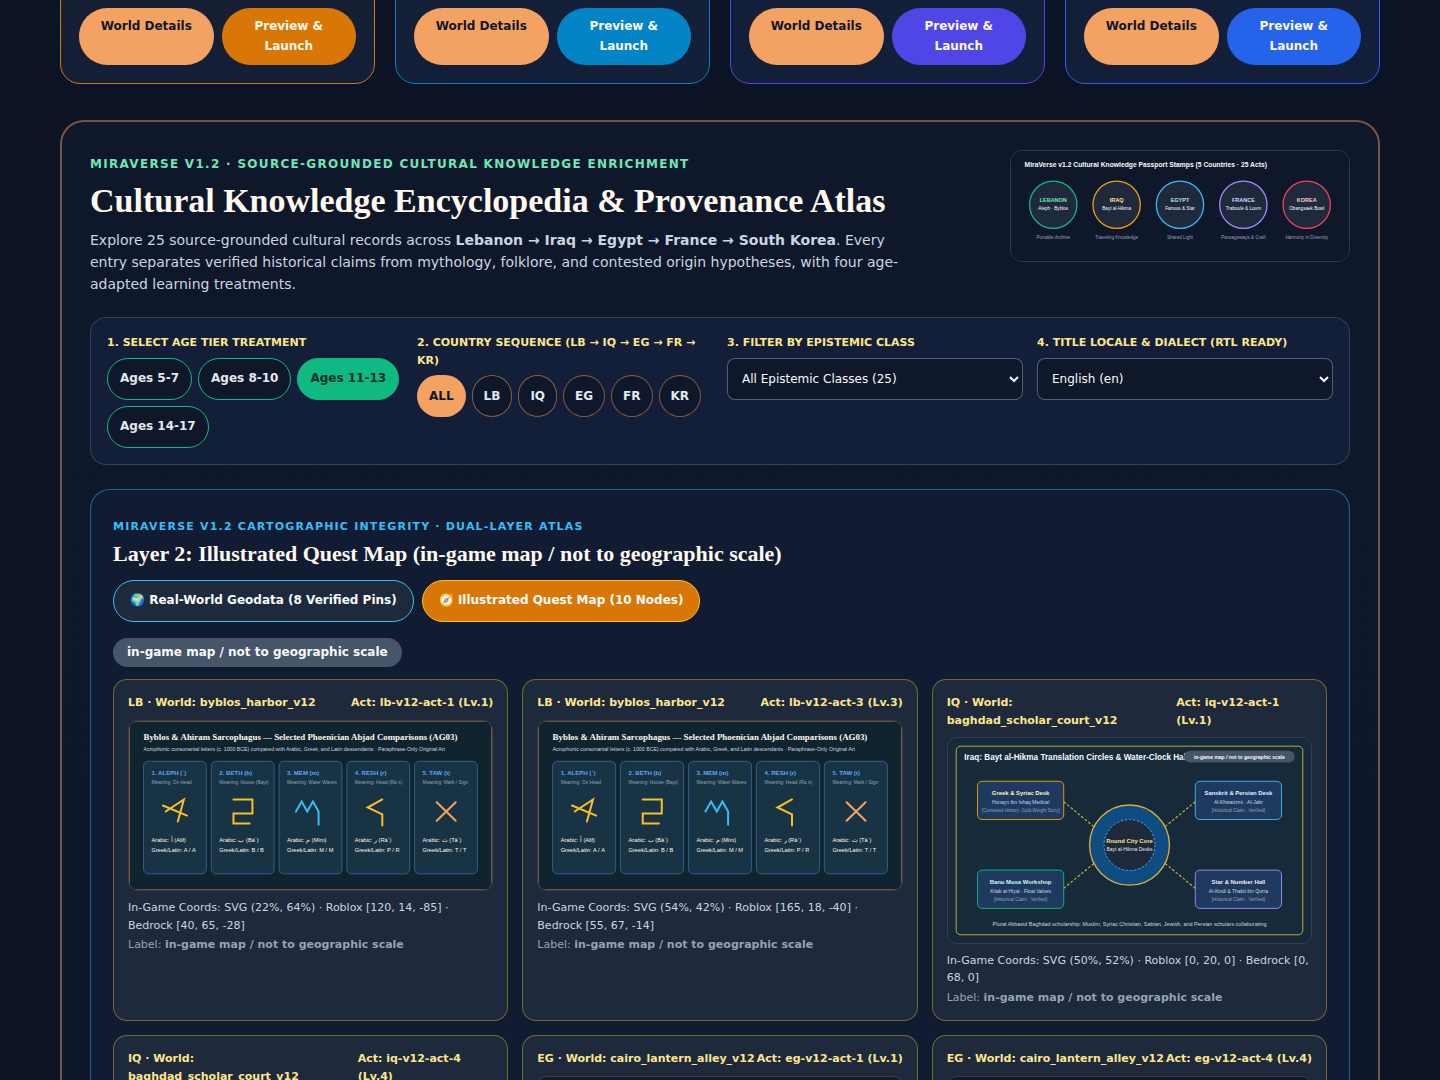
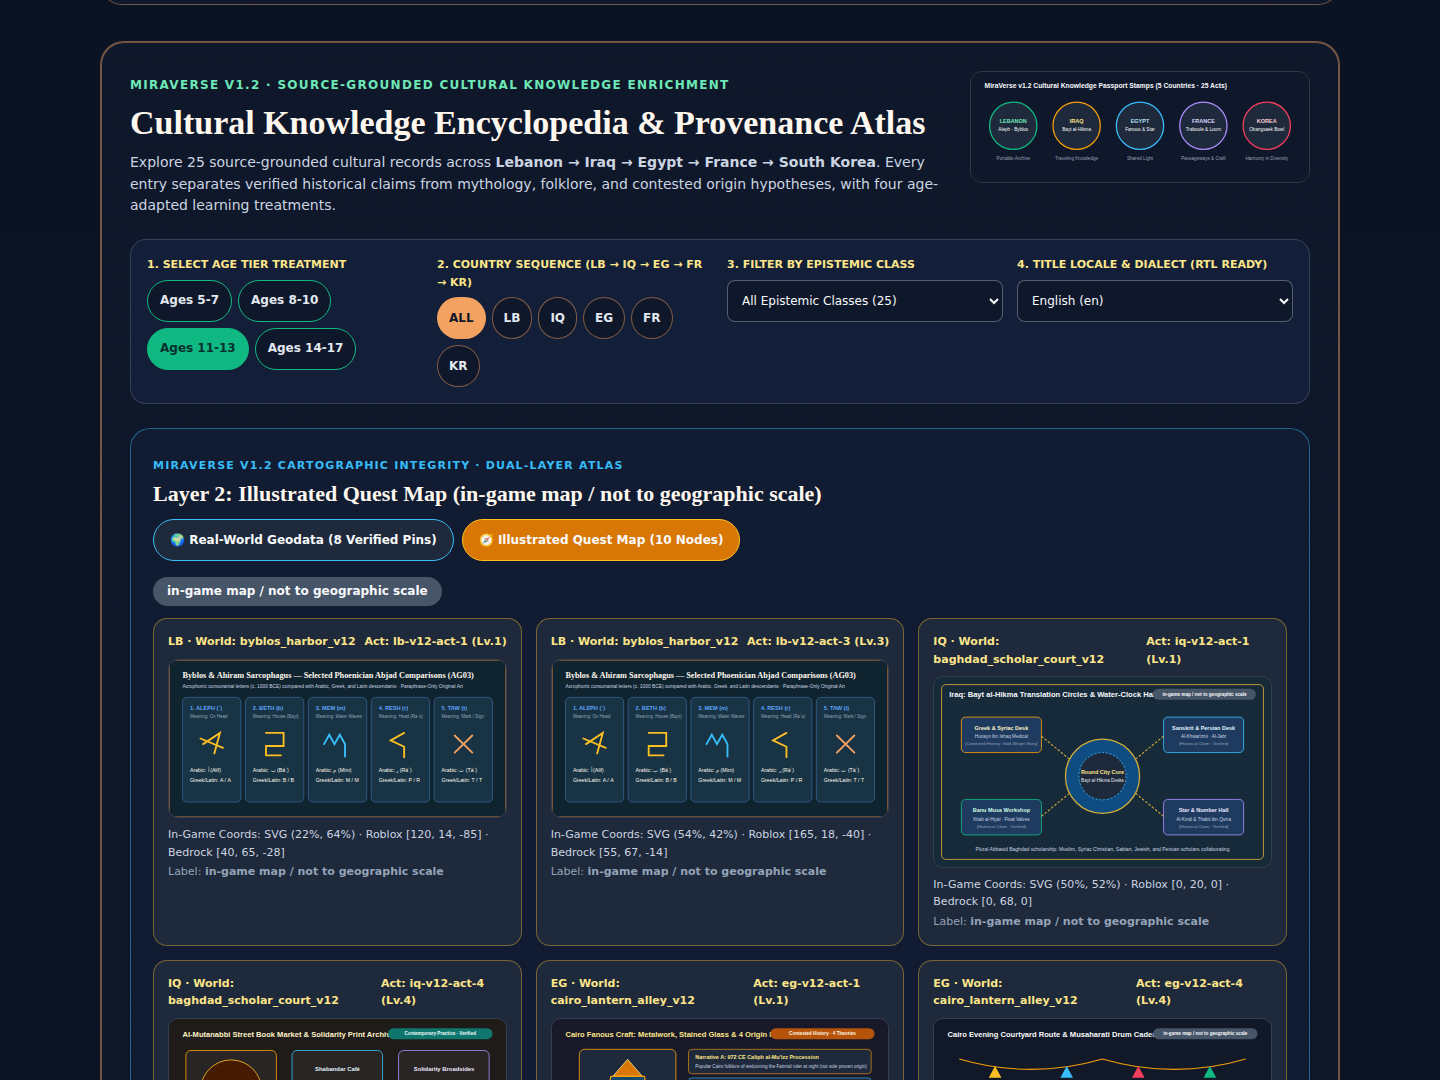
feat(v1.2): mount CulturalEncyclopediaSectionV12 on /atlas and /explore/:country and refresh Playwright verification screens

Changed region(s): [[0.0312, 0.0, 0.9688, 1.0], [0.9062, 0.4278, 0.9375, 0.4583]]

diff --git a/apps/web/src/marketing/worlds-v06/ExploreAtlasPages.tsx b/apps/web/src/marketing/worlds-v06/ExploreAtlasPages.tsx
@@ -21,6 +21,7 @@ import {
   type AgeTierId,
 } from '../../../../../packages/contracts/v13/index';
 import { RobloxLaunchBanner } from '../../launch/RobloxLaunchPage';
+import { CulturalEncyclopediaSectionV12 } from '../../features/encyclopedia-v12/CulturalEncyclopediaSectionV12';
 
 export const ExploreAtlasPage: React.FC = () => {
   const [filter, setFilter] = useState<'ALL' | 'FLAGSHIP' | 'STORIES'>('ALL');
@@ -974,6 +975,9 @@ export const ExploreCountryDetailPage: React.FC = () => {
           </div>
           <RobloxLaunchBanner countryCode={code} />
         </section>
+
+        {/* SECTION 14: Source-Grounded Cultural Knowledge Encyclopedia & Provenance Atlas (v1.2) */}
+        <CulturalEncyclopediaSectionV12 countryFilter={code} />
       </div>
     </div>
   );

diff --git a/apps/web/src/portal/v13/CulturalPortalPages.tsx b/apps/web/src/portal/v13/CulturalPortalPages.tsx
@@ -9,6 +9,7 @@
 import React, { useState } from 'react';
 import { Link, useParams } from 'react-router-dom';
 import type { CountryCode } from '../../../../../packages/contracts/index';
+import { CulturalEncyclopediaSectionV12 } from '../../features/encyclopedia-v12/CulturalEncyclopediaSectionV12';
 import {
   EPISTEMIC_BADGE_LABELS,
   V13_AGE_TIERS,
@@ -546,6 +547,9 @@ export const InteractiveWorldAtlasPage: React.FC = () => {
             </div>
           </section>
         )}
+
+        {/* Source-Grounded Cultural Knowledge Encyclopedia & Dual-Layer Provenance Atlas (v1.2) */}
+        <CulturalEncyclopediaSectionV12 countryFilter="ALL" />
       </div>
     </div>
   );

diff --git a/apps/web/src/features/knowledge-cards/KnowledgeCardV12.tsx b/apps/web/src/features/knowledge-cards/KnowledgeCardV12.tsx
@@ -124,7 +124,6 @@ export const KnowledgeCardV12: React.FC<{
           <img
             src={record.svg_asset}
             alt={record.title.en}
-            loading="lazy"
             style={{ width: '100%', height: 'auto', display: 'block' }}
           />
         </div>
